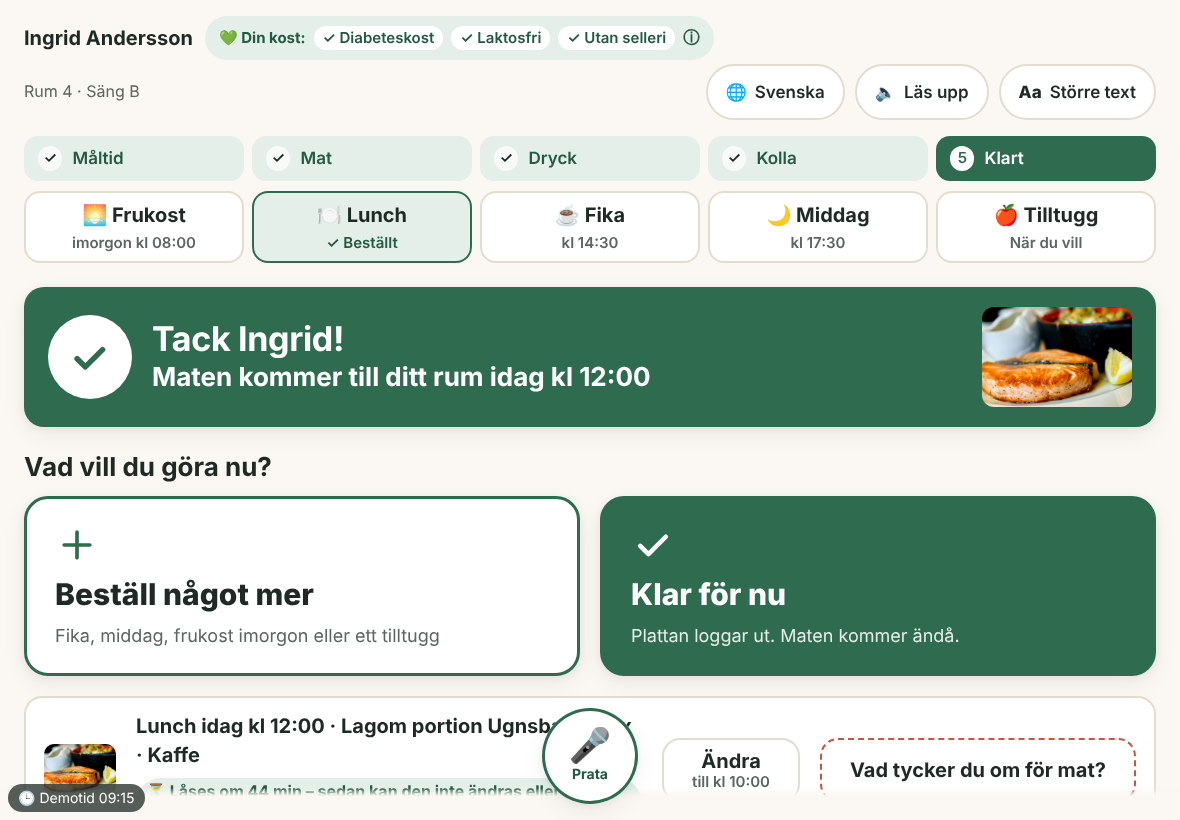
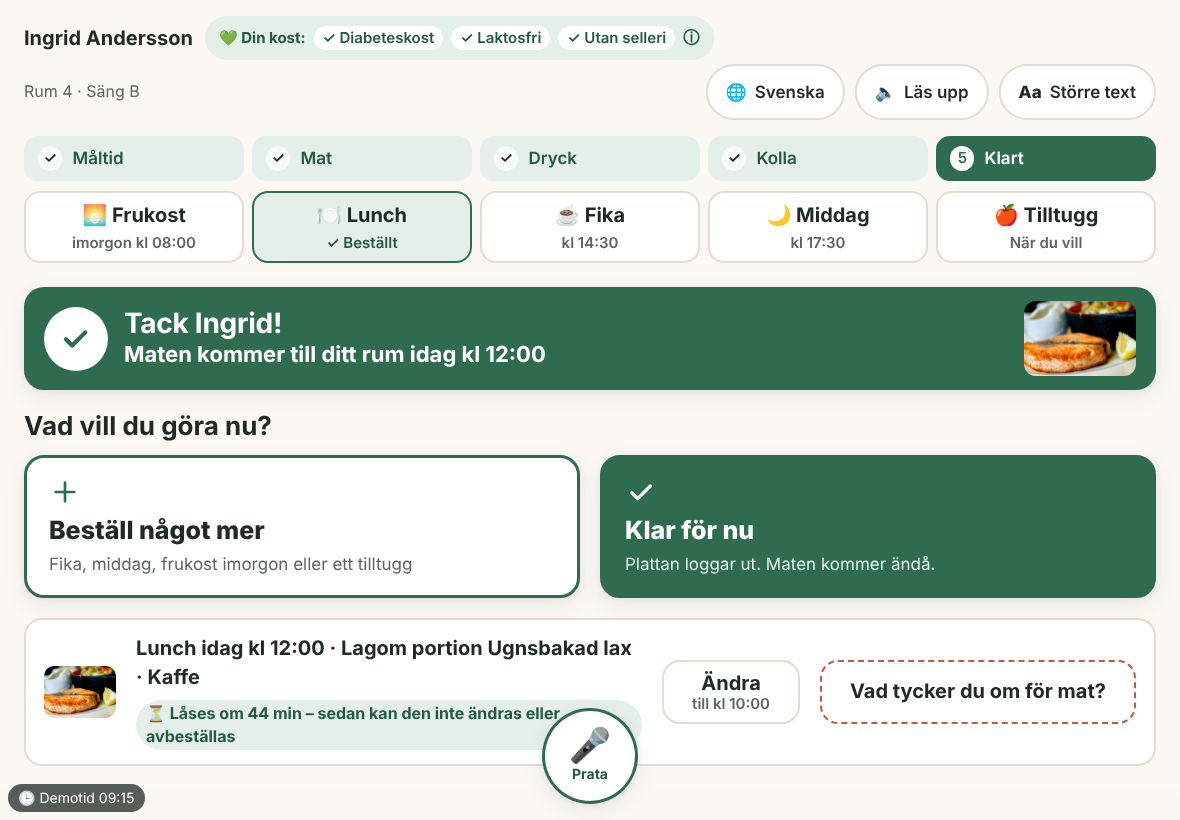
Klart: mindre vägvalsknappar och tackruta
- Vägvalen är lägre (120 px i stället för 180), med mindre ikon och rubrik.
- Tackrutan är mindre från början (bock 64 px, bild 112 × 75) och krymper till en
  rad på 52 px.

Claude-Session: https://claude.ai/code/session_01W2bM9vS6XV6jr7pPMAABKn

diff --git a/src/app/globals.css b/src/app/globals.css
@@ -1331,27 +1331,27 @@ button:focus-visible {
 }
 
 @keyframes done-check-shrink {
-  0%, 85% { width: 84px; height: 84px; }
-  100% { width: 44px; height: 44px; }
+  0%, 85% { width: 64px; height: 64px; }
+  100% { width: 36px; height: 36px; }
 }
 
 @keyframes done-image-shrink {
-  0%, 85% { width: 150px; height: 100px; }
-  100% { width: 66px; height: 44px; }
+  0%, 85% { width: 112px; height: 75px; }
+  100% { width: 54px; height: 36px; }
 }
 
 @keyframes done-splash-shrink {
-  0%, 85% { padding-block: 20px; }
-  100% { padding-block: 10px; }
+  0%, 85% { padding-block: 14px; }
+  100% { padding-block: 8px; }
 }
 
 .done-splash {
   display: grid;
   grid-template-columns: auto minmax(0, 1fr) auto;
   align-items: center;
-  gap: 4px 20px;
-  margin-bottom: 24px;
-  padding: 20px 24px;
+  gap: 4px 16px;
+  margin-bottom: 20px;
+  padding: 14px 20px;
   border-radius: var(--radius);
   background: var(--primary);
   color: #fff;
@@ -1360,8 +1360,8 @@ button:focus-visible {
 }
 
 .done-splash-check {
-  width: 84px;
-  height: 84px;
+  width: 64px;
+  height: 64px;
   border-radius: 50%;
   background: #fff;
   color: var(--primary);
@@ -1376,20 +1376,20 @@ button:focus-visible {
 }
 
 .done-splash h1 {
-  font-size: 1.7em;
+  font-size: 1.4em;
   line-height: 1.15;
   overflow: hidden;
   animation: done-thanks-out 3s ease-in-out forwards;
 }
 
 .done-splash p {
-  font-size: 1.3em;
+  font-size: 1.1em;
   font-weight: 700;
 }
 
 .done-splash-image {
-  width: 150px;
-  height: 100px;
+  width: 112px;
+  height: 75px;
   border-radius: 12px;
   object-fit: cover;
   animation: done-image-shrink 3s ease-in-out forwards;
@@ -1419,10 +1419,10 @@ button:focus-visible {
   flex-direction: column;
   align-items: flex-start;
   justify-content: center;
-  gap: 6px;
-  min-height: 180px;
-  padding: 24px 28px;
-  border-radius: 24px;
+  gap: 4px;
+  min-height: 120px;
+  padding: 18px 22px;
+  border-radius: 20px;
   border: 3px solid var(--primary);
   background: var(--surface);
   color: var(--primary);
@@ -1436,14 +1436,19 @@ button:focus-visible {
   color: #fff;
 }
 
+.done-choice svg {
+  width: 32px;
+  height: 32px;
+}
+
 .done-choice-title {
-  font-size: 1.5em;
+  font-size: 1.25em;
   font-weight: 800;
   color: var(--text);
 }
 
 .done-choice-body {
-  font-size: 0.9em;
+  font-size: 0.85em;
   color: var(--text-muted);
 }
 
@@ -1494,7 +1499,7 @@ button:focus-visible {
   .done-splash { grid-template-columns: auto minmax(0, 1fr); }
   .done-splash-image { display: none; }
   .done-choices { grid-template-columns: 1fr; }
-  .done-choice { min-height: 120px; }
+  .done-choice { min-height: 96px; }
 }
 
 /* ---------- Omdöme ---------- */
